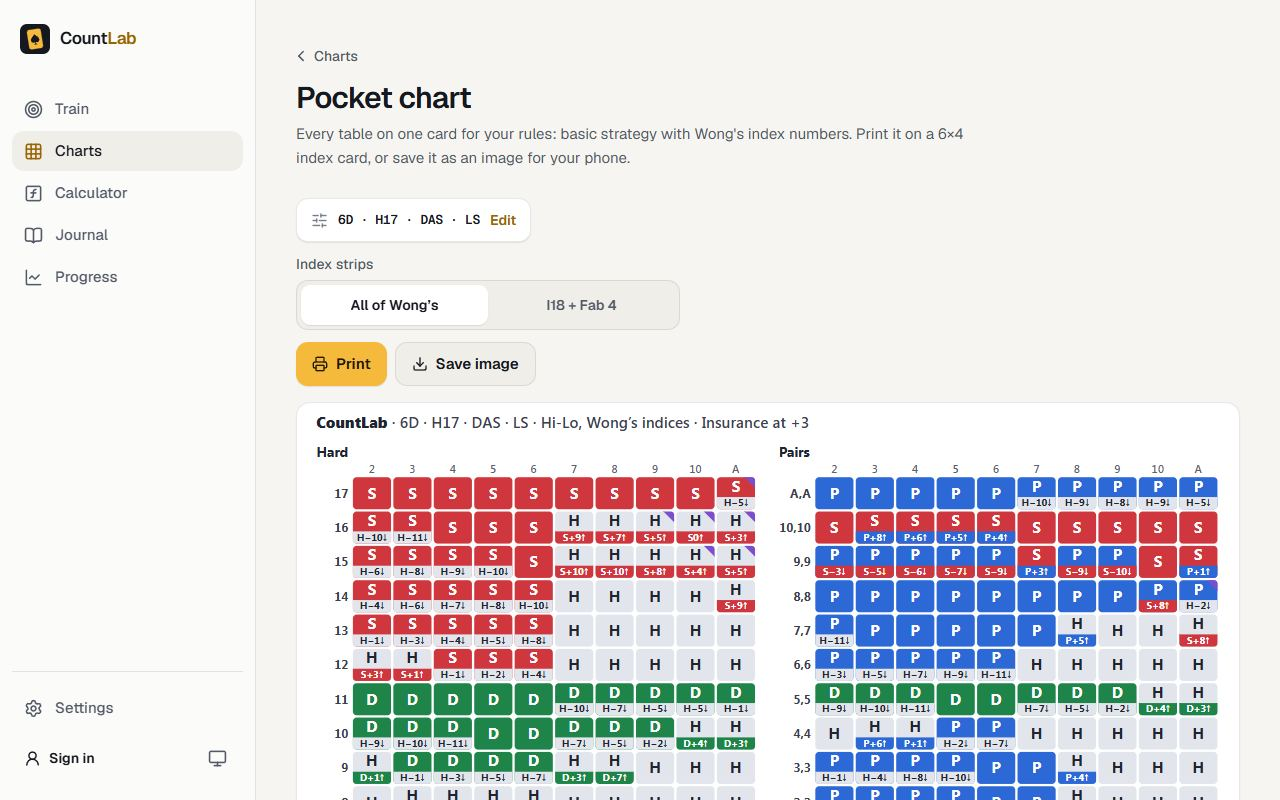
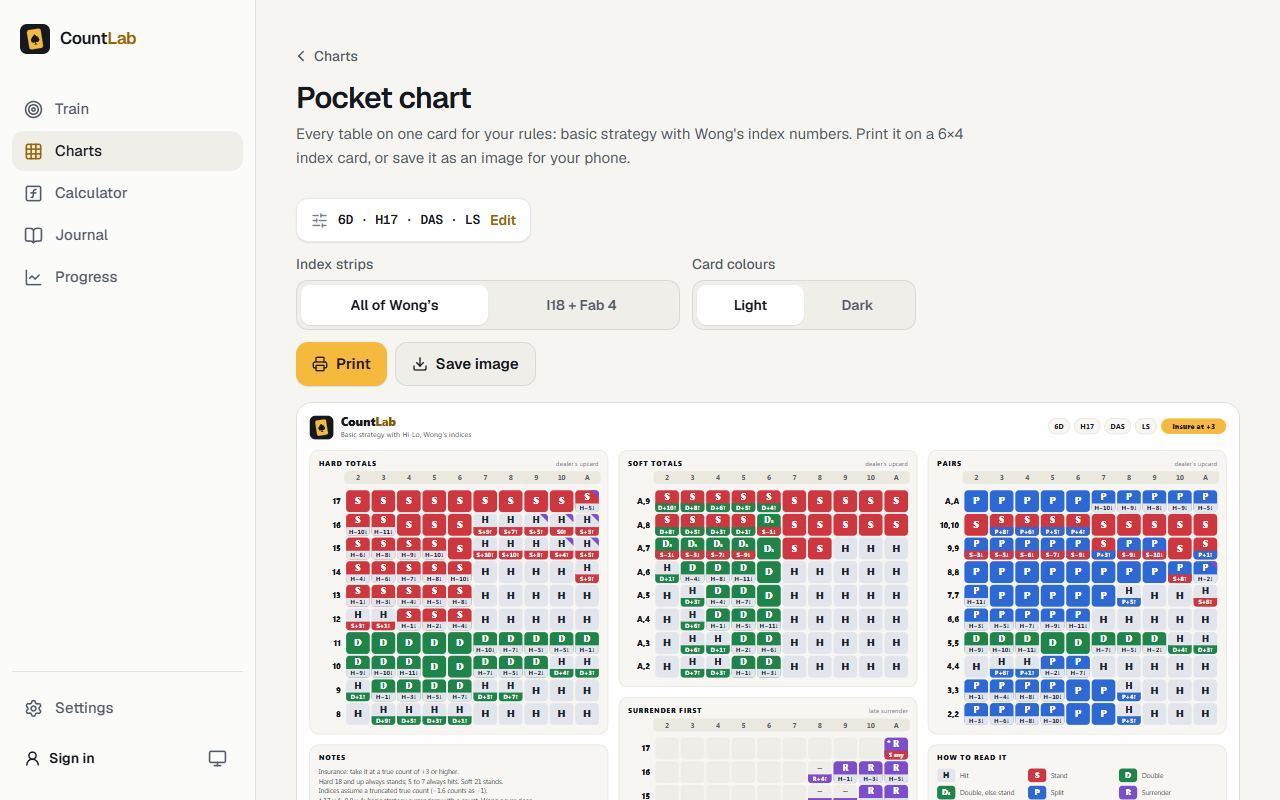
Log the pocket chart redesign and the truncate default in What's new
Claude-Session: https://claude.ai/code/session_01GN4JncPdWySCfinQdgWaPL

diff --git a/blackjack/lib/changelog.ts b/blackjack/lib/changelog.ts
@@ -29,6 +29,36 @@ export function entryDate({ date, from }: Pick<ChangelogEntry, "date" | "from">)
 
 export const CHANGELOG: readonly ChangelogEntry[] = [
   {
+    id: "2026-10-25-pocket-card",
+    date: "2026-10-25",
+    title: "A redesigned pocket chart, and truncated true counts",
+    summary: "The pocket chart has a new layout and comes in light or dark, and new settings now truncate the true count, which is what Wong's indices assume.",
+    tags: ["new", "improved", "fixed"],
+    shots: [{ src: "/changelog-shots/pocket-dark.jpg", alt: "The redesigned pocket chart in dark colours, with hard, soft, pair and surrender panels and a key", caption: "The new pocket chart in dark colours, for six decks with early surrender." }],
+    groups: [
+      {
+        title: "Pocket chart",
+        items: [
+          "A new layout: a header with your rules and the insurance count, a rounded panel for each table with a shaded dealer row, and three columns sized to print across a 6×4 card.",
+          "Light or dark colours. Your choice is remembered on this device and Download chart on the charts page uses it too. Dark images get “-dark” in the file name, and printing always uses light.",
+          "A How to read it panel explains the colours, the index strips, the purple surrender corner, and the dash a surrender cell shows when you surrender only at a high enough count.",
+          "A Notes panel gives the insurance count, the always-hit and always-stand totals, that indices assume a truncated true count, and any footnotes for your rules.",
+        ],
+      },
+      {
+        title: "True count",
+        items: [
+          "New settings truncate the true count (−1.6 counts as −1, +2.8 as +2), as Wong's indices assume. Truncate is now listed first in Settings.",
+          "If you have saved settings before, they keep the rounding they had; you can switch it in Settings → Counting.",
+        ],
+      },
+      {
+        title: "Fixes",
+        items: ["On screens 1280–1360px wide, the Calculator's bet ramp steps stay inside their card."],
+      },
+    ],
+  },
+  {
     id: "2026-10-24-drills",
     date: "2026-10-24",
     title: "New drills and a full UI audit",
